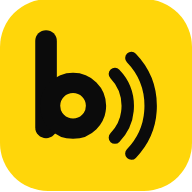
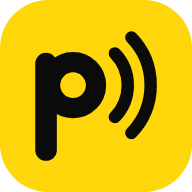
Sistema renomeado para PagNow: caixa, painel, app Android, relatório e marca
Troca o nome do sistema (antes Beep Smart Pay) e a logo em site/marca e no Painel.
As telas do comprador continuam com a logo da loja.

Claude-Session: https://claude.ai/code/session_01Tccnz5wSShBPm6GF1heSzH

diff --git a/index.html b/index.html
@@ -7,7 +7,7 @@
 <link rel="manifest" href="manifest.webmanifest">
 <link rel="icon" href="site/marca/simbolo.svg" type="image/svg+xml">
 <link rel="apple-touch-icon" href="site/marca/icone-192.png">
-<title>Beep Smart Pay · Caixa</title>
+<title>PagNow · Caixa</title>
 <meta name="mobile-web-app-capable" content="yes">
 <link rel="preconnect" href="https://fonts.googleapis.com"><link rel="preconnect" href="https://fonts.gstatic.com" crossorigin>
 <link href="https://fonts.googleapis.com/css2?family=Manrope:wght@500;700;800&family=Inter:wght@400;500;600;700&display=swap" rel="stylesheet">
@@ -286,9 +286,9 @@ h2{font-size:22px;font-weight:800}
   <img src="logo.png" alt="Beep" id="logoInst" style="height:44px;width:auto;align-self:flex-start">
   <h2 style="font:800 28px/1.15 Manrope,Inter,sans-serif;margin-top:18px">Instale o caixa para usar</h2>
   <p style="color:var(--mu);font-size:16px;line-height:1.5">Aberto no navegador, a barra do Google fica liberada e qualquer pessoa pode navegar. Instalado, o caixa abre em tela cheia, sem barra.</p>
-  <button class="btn" id="btnInstalar" style="display:none">Instalar o Beep Smart Pay</button>
+  <button class="btn" id="btnInstalar" style="display:none">Instalar o PagNow</button>
   <div style="background:var(--k2);border-radius:18px;padding:18px;font-size:15px;line-height:1.6">
-    <b>Se o botão não aparecer:</b><br>1. Toque nos três pontinhos (⋮) do Chrome, no canto de cima.<br>2. Toque em <b>Instalar app</b> (ou <b>Adicionar à tela inicial › Instalar</b>).<br>3. Abra o <b>Beep Smart Pay</b> pelo ícone na tela inicial.<br>4. Depois fixe o app (Recentes ▢ › ícone › Fixar).
+    <b>Se o botão não aparecer:</b><br>1. Toque nos três pontinhos (⋮) do Chrome, no canto de cima.<br>2. Toque em <b>Instalar app</b> (ou <b>Adicionar à tela inicial › Instalar</b>).<br>3. Abra o <b>PagNow</b> pelo ícone na tela inicial.<br>4. Depois fixe o app (Recentes ▢ › ícone › Fixar).
   </div>
 </div>
 
@@ -737,7 +737,7 @@ const pedirMic=async()=>{try{const s=await navigator.mediaDevices.getUserMedia({
 const instalado=()=>!!NATIVO||matchMedia('(display-mode: fullscreen)').matches||matchMedia('(display-mode: standalone)').matches||navigator.standalone===true;
 let liberadoNav=false,promptInst=null;
 addEventListener('beforeinstallprompt',e=>{e.preventDefault();promptInst=e;$('#btnInstalar').style.display='block'});
-addEventListener('appinstalled',()=>{$('#btnInstalar').style.display='none';$('#instalar').querySelector('h2').textContent='Instalado! Abra pelo ícone Beep Smart Pay'});
+addEventListener('appinstalled',()=>{$('#btnInstalar').style.display='none';$('#instalar').querySelector('h2').textContent='Instalado! Abra pelo ícone PagNow'});
 $('#btnInstalar').onclick=async()=>{if(!promptInst)return;promptInst.prompt();await promptInst.userChoice.catch(()=>{});promptInst=null;$('#btnInstalar').style.display='none'};
 function travaNav(){$('#instalar').style.display=(token&&!instalado()&&!liberadoNav)?'flex':'none'}
 let tqi=0,tqiT=null;$('#logoInst').onclick=()=>{tqi++;clearTimeout(tqiT);tqiT=setTimeout(()=>tqi=0,2500);if(tqi>=5){tqi=0;if(!ls.get('bp-pin',''))return;liberarNav=true;$('#instalar').style.display='none';telaPin('entrar')}};

diff --git a/gestao/index.html b/gestao/index.html
@@ -3,7 +3,7 @@
 <head>
 <meta charset="utf-8">
 <meta name="viewport" content="width=device-width,initial-scale=1">
-<title>Beep Smart Pay · Gestão</title>
+<title>PagNow · Gestão</title>
 <meta name="robots" content="noindex">
 <link rel="icon" href="../site/marca/simbolo.svg" type="image/svg+xml">
 <link rel="preconnect" href="https://fonts.googleapis.com"><link rel="preconnect" href="https://fonts.gstatic.com" crossorigin>
@@ -131,7 +131,7 @@ function precoRef(pid){const ps=S.precos.filter(p=>p.produto_id===pid);return ps
 // ---------- login ----------
 function telaLogin(modo='entrar',msg=''){
  $('#raiz').innerHTML=`<div class="login"><div class="card">
-  <img src="../logo-claro.png" alt="Beep Smart Pay">
+  <img src="../logo-claro.png" alt="PagNow">
   <div><h1 style="font-size:24px">Gestão da loja</h1><p class="mu sm">Entrada de notas, portfólios e configurações.</p></div>
   <div class="tabs2"><button class="${modo==='entrar'?'on':''}" data-m="entrar">Entrar</button><button class="${modo==='convite'?'on':''}" data-m="convite">Tenho um convite</button></div>
   <form id="fLogin" style="display:grid;gap:12px">
@@ -162,7 +162,7 @@ async function iniciar(){const {data:{session}}=await sb.auth.getSession();if(!s
  S.papel=m[0].papel;const {data:emp}=await sb.from('empresas').select('id,nome_exibicao,razao_social,cnpj,regra_preco,gravacao,dias_video').eq('id',m[0].empresa_id).single();S.emp=emp;
  try{await carregar()}catch(e){$('#raiz').innerHTML=`<div class="login"><div class="card"><h2>Não foi possível carregar</h2><p class="mu">${esc(e.message)}</p><button class="btn" onclick="location.reload()">Tentar de novo</button></div></div>`;return}
  shell()}
-function shell(){$('#raiz').innerHTML=`<div class="app"><aside class="side"><img class="logo" src="../logo-claro.png" alt="Beep Smart Mercadinhos">
+function shell(){$('#raiz').innerHTML=`<div class="app"><aside class="side"><img class="logo" src="../logo-claro.png" alt="PagNow">
   <button class="nav" data-t="vend"><svg width="18" height="18" viewBox="0 0 24 24" fill="none" stroke="currentColor" stroke-width="2"><path d="M3 3v18h18"/><path d="M7 14l4-4 3 3 5-6"/></svg>Vendas</button>
   <button class="nav" data-t="prod"><svg width="18" height="18" viewBox="0 0 24 24" fill="none" stroke="currentColor" stroke-width="2"><path d="M20.6 13.4l-7.2 7.2a2 2 0 0 1-2.8 0L3 13V3h10l7.6 7.6a2 2 0 0 1 0 2.8z"/><circle cx="7.5" cy="7.5" r="1.5"/></svg>Produtos</button>
   <button class="nav" data-t="est"><svg width="18" height="18" viewBox="0 0 24 24" fill="none" stroke="currentColor" stroke-width="2"><path d="M21 8l-9-5-9 5v8l9 5 9-5z"/><path d="M3 8l9 5 9-5M12 13v8"/></svg>Estoque e reposição</button>

diff --git a/relatorio/index.html b/relatorio/index.html
@@ -79,7 +79,7 @@ async function carregar(){
  <div class="card"><h2>Dia a dia</h2>${dias.length&&T.visualizacoes?`<div class="graf">${dias.map(d=>`<div class="c" title="${dBR(d.d)}: ${d.v} visualizações, ${d.c} cliques"><div class="k" style="height:${d.c/max*100}%"></div><div class="v" style="height:${d.v/max*100}%"></div></div>`).join('')}</div>
   <div class="eixo">${dias.map((d,i)=>`<span>${i%passo===0?d.d.slice(8,10)+'/'+d.d.slice(5,7):''}</span>`).join('')}</div><div class="leg"><span><i style="background:var(--y)"></i>Visualizações</span><span><i style="background:#38bdf8"></i>Cliques</span></div>`:'<p class="vazio">Os números aparecem aqui assim que o anúncio começar a ser visto.</p>'}</div>
  ${Object.keys(r.canais).length?`<div class="card"><h2>Por canal</h2><div class="canais">${Object.entries(r.canais).map(([k,x])=>`<div class="canal"><b>${esc(nomeCanal[k]||k)}</b><span>${n(x.v)} visualizações · ${n(x.c)} cliques</span></div>`).join('')}</div></div>`:''}
- <footer><span>Atualizado em ${new Date(r.gerado).toLocaleString('pt-BR',{dateStyle:'short',timeStyle:'short'})}. Números contados pelo sistema Beep Smart Pay, sem dados pessoais dos moradores.</span><span>Beep Smart Mercadinhos</span></footer>`}
+ <footer><span>Atualizado em ${new Date(r.gerado).toLocaleString('pt-BR',{dateStyle:'short',timeStyle:'short'})}. Números contados pelo sistema PagNow, sem dados pessoais dos moradores.</span><span>Beep Smart Mercadinhos</span></footer>`}
 carregar();
 </script>
 </body>

diff --git a/sw.js b/sw.js
@@ -1,5 +1,5 @@
 // Guarda o app no aparelho para abrir sem internet. Chamadas à API nunca são cacheadas.
-const V = 'beep-caixa-v23';
+const V = 'beep-caixa-v24';
 const FOTOS = 'beep-fotos'; // fotos dos produtos: guardadas no aparelho por 7 dias
 const SETE_DIAS = 7 * 24 * 60 * 60 * 1000;
 const ARQ = ['./', './index.html', './manifest.webmanifest', './logo.png', './icon-192.png', './icon-512.png'];

diff --git a/site/marca/REGRAS.md b/site/marca/REGRAS.md
@@ -1,13 +1,14 @@
-# Marca Beep Smart Pay — regras de composição
+# Marca PagNow: regras de composição
 
 Medidas em unidades do símbolo (S = lado do quadrado amarelo = 64).
 
-1. **Símbolo:** quadrado amarelo #FFD60A, cantos com raio S/4. O "b" com as ondas fica centralizado no quadrado na horizontal e na vertical.
-2. **Altura do nome = altura do símbolo:** o topo do "b" de "beep" alinha com o topo do quadrado e a base de "SMART PAY" alinha com a base do quadrado.
-3. **Mesma largura nas duas linhas:** "beep" e "SMART PAY" começam e terminam exatamente no mesmo ponto (o espaçamento de "SMART PAY" é calculado para isso).
-4. **Proporção das linhas:** "beep" ocupa 67% da altura, o espaço entre as linhas 18% e "SMART PAY" 15%.
-5. **Espaço entre símbolo e nome:** igual à margem interna do "b" dentro do quadrado (≈ S × 0,18).
-6. **Respiro:** nas imagens exportadas, a margem livre é igual nos quatro lados (1/6 da altura do arquivo). Nas telas, use o SVG, que não tem margem, e deixe o espaço no layout.
+1. **Símbolo:** quadrado amarelo #FFD60A, cantos com raio S/4, com o "p" e as ondas de aproximação em preto #0b0b0b, centralizados.
+2. **Altura do nome = altura do símbolo:** o topo do "P" alinha com o topo do quadrado e a base da perna do "g" alinha com a base do quadrado.
+3. **Cores do nome:** no fundo escuro, "Pag" em branco e "Now" em amarelo #FFD60A. No fundo claro, o nome todo em preto #0b0b0b.
+4. **Espaço entre símbolo e nome:** S × 0,22.
+5. **Fonte:** Sora 700, espaçamento -0,045 em. Nos SVGs as letras já estão convertidas em desenho, então ficam iguais em qualquer aparelho.
+6. **Respiro:** nos PNGs exportados, a margem livre é igual nos quatro lados (1/6 da altura do arquivo). Nas telas, use o SVG, que não tem margem, e deixe o espaço no layout.
 
-Arquivos: `logo-fundo-claro.svg`/`.png` (texto preto), `logo-fundo-escuro.svg`/`.png` (texto branco e amarelo), `simbolo.svg`, `icone-192.png`, `icone-512.png`, `og.png`.
-Os SVGs têm as letras convertidas em desenho (fonte Manrope 800 e 700), então ficam iguais em qualquer aparelho.
+Arquivos: `logo-fundo-escuro.svg`/`.png`, `logo-fundo-claro.svg`/`.png`, `simbolo.svg`, `icone-192.png`, `icone-512.png`, `og.png` (1200×630, para links compartilhados).
+
+PagNow é a marca do sistema (site, painel, kit, material comercial). As telas que o comprador vê no caixa e no app do cliente usam a logo da loja do cliente (white label).
